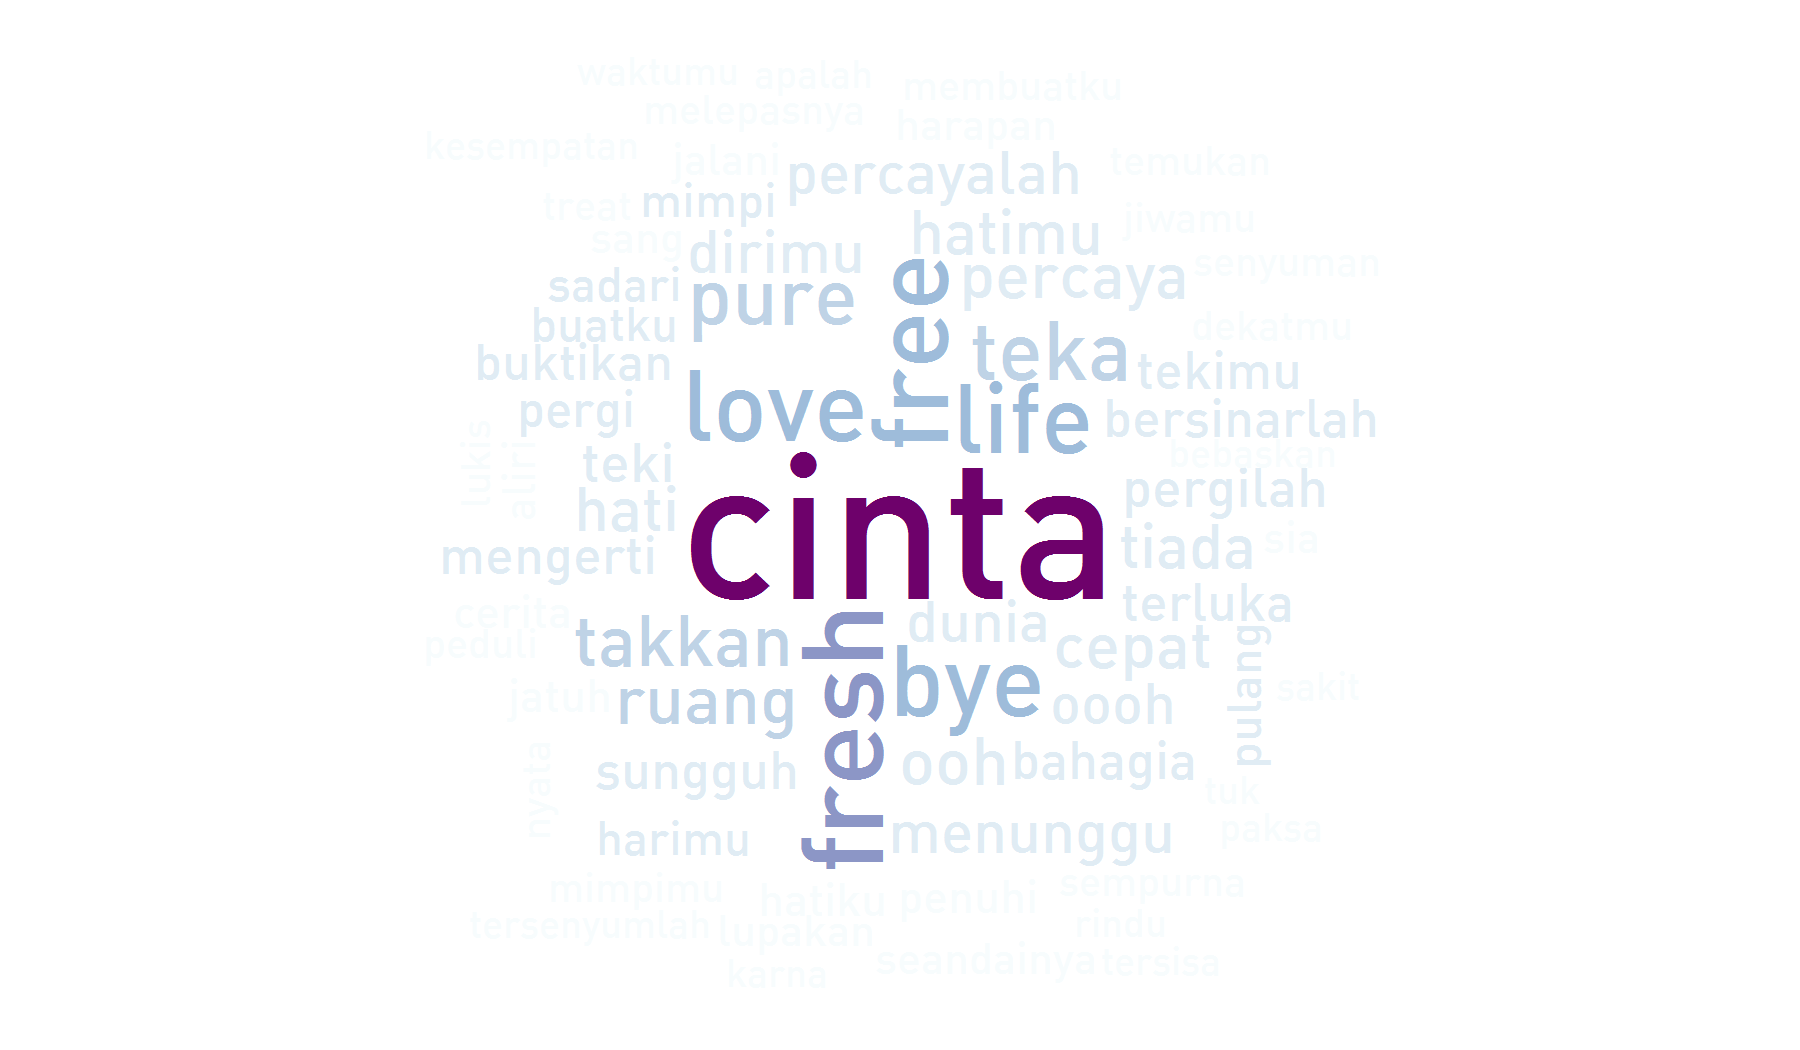
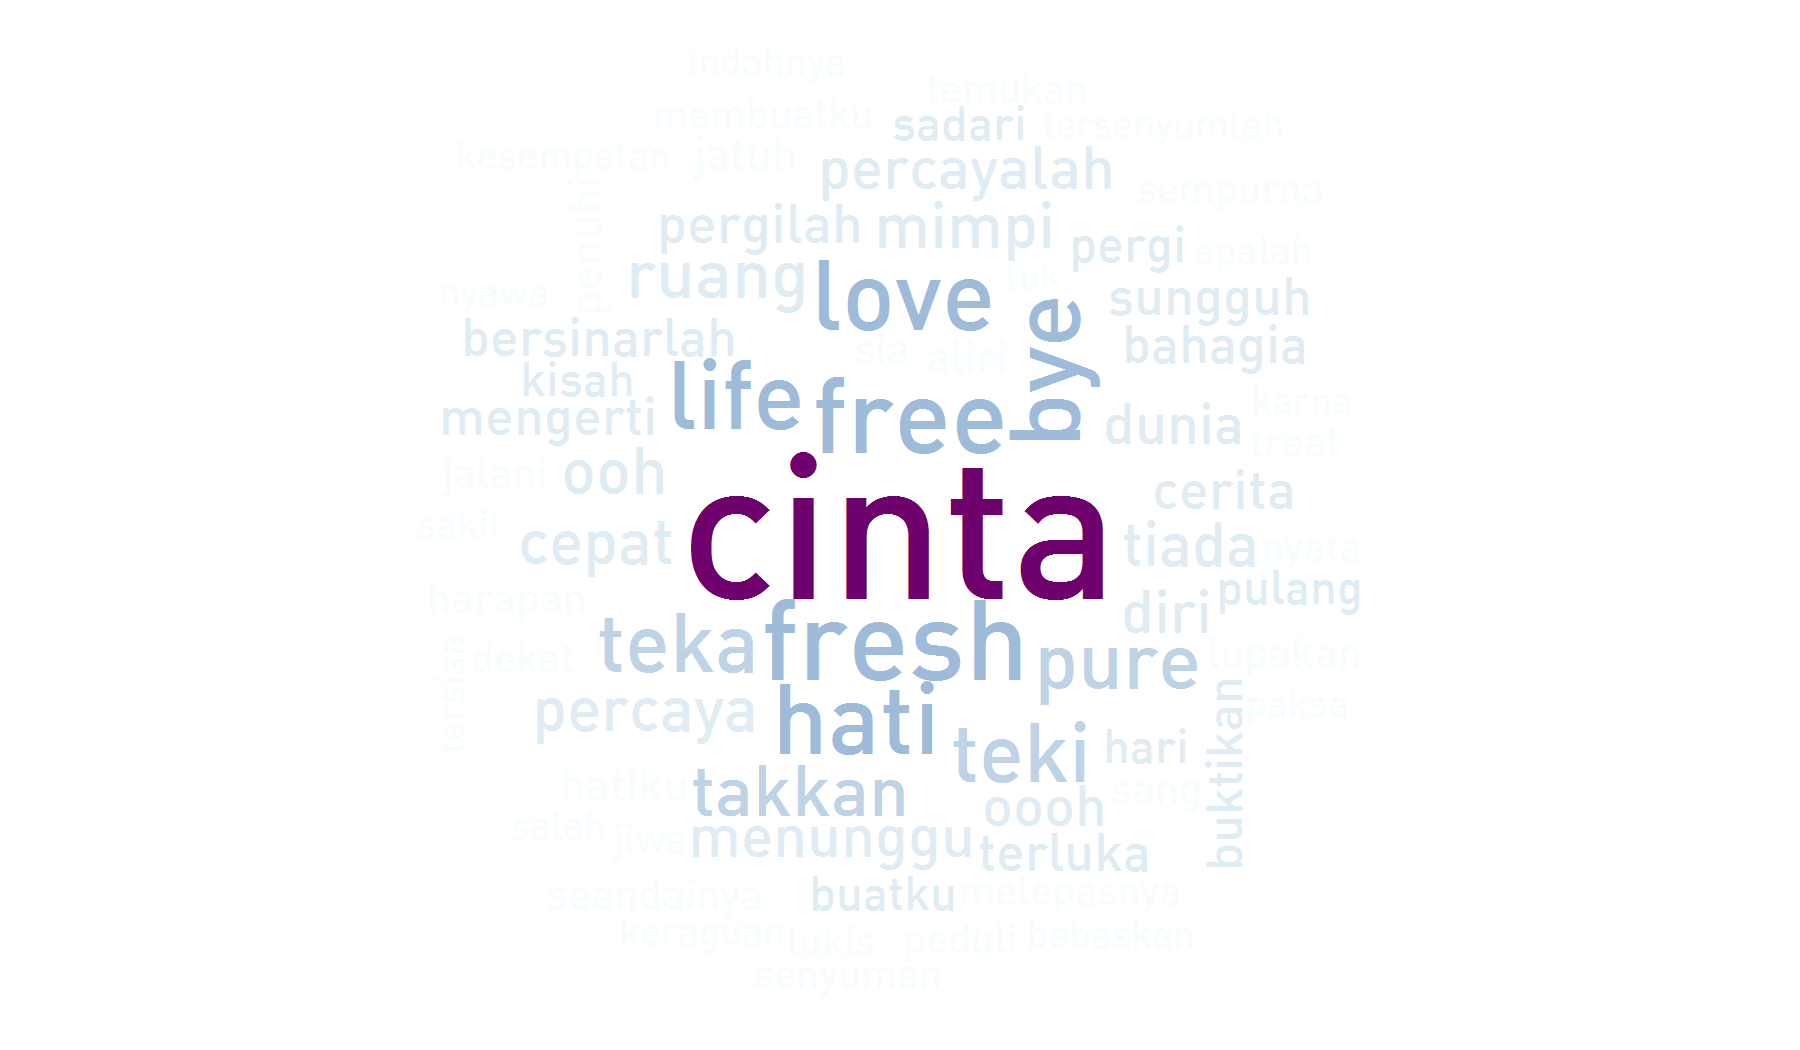
Raisa

Changed region(s): [[0.2489, 0.0914, 0.7778, 0.5486], [0.28, 0.4571, 0.7778, 0.8838]]

diff --git a/_pages/datakepo.html b/_pages/datakepo.html
@@ -6,7 +6,7 @@ description: "DataKepo adalah wadah bagi Rasyid Ridha untuk untuk mengeksplorasi
 ---
 
 {% assign rawtags = "" %}
-{% for post in site.categories.datague %}
+{% for post in site.categories.datakepo %}
 	{% assign ttags = post.tags | join:'|' | append:'|' %}
 	{% assign rawtags = rawtags | append:ttags %}
 {% endfor %}
@@ -31,13 +31,13 @@ description: "DataKepo adalah wadah bagi Rasyid Ridha untuk untuk mengeksplorasi
 </p>
 
 <div id="home">
-<h2 class="front"><i class="fa fa-camera"></i> {{ page.title }}</h2>
-<p>DataGue adalah wadah bagi saya untuk mengekspresikan diri dengan data melalui eksplorasi dan visualisasi data. Dua tulisan pembuka sudah dimuat dengan judul <a href="http://rasyidridha.com/blog/data-gue-personal-analytics/">DataGue: My Personal Analytics Palace</a> dan <a href="http://rasyidridha.com/blog/first-look-at-my-commuting-data/">First Look at My Transportation Data</a>. <i class="italic-default">Express yourself with data and have fun!</i>  
+<h2 class="front"><i class="fa fa-area-chart"></i> {{ page.title }}</h2>
+<p>DataKepo adalah wadah bagi saya untuk untuk mengeksplorasi, memvisualisasikan dan mendapatkan insight menarik dari berbagai macam data dengan cara yang unik. <i class="italic-default">Enjoy the data!</i>
 </p> 
 {% for tag in tags %}
 	<h5><a href="#{{ tag }}" id="{{ tag }}">{{ tag }}</a></h5>
 	<ul id="blog-posts" class="posts">
-	 {% for post in site.categories.datague %}
+	 {% for post in site.categories.datakepo %}
 		 {% if post.tags contains tag %}
 		 <li><span>{{ post.date | date_to_string }} &raquo;</span><b><a href="{{ post.url }}">{{ post.short-title }}</a></b></li>
 		 {% endif %}

diff --git a/_posts/datakepo/2017-09-14-selamat-jalan-raisa.md b/_posts/datakepo/2017-09-14-selamat-jalan-raisa.md
@@ -1,0 +1,202 @@
+---
+layout: datakepo
+title: "Visualisasi Data: Text Mining Lirik Lagu Raisa"
+short-title: "Text Mining Lirik Lagu Raisa"
+categories: datakepo
+tags:
+- Text Mining
+type: post
+img: "/images/datakepo/raisa/raisa.png"
+published: true
+word-count: false
+---
+
+Tanggal 3 September 2017 yang lalu, Raisa resmi berganti status. Selamat jalan Raisa! Selamat menempuh hidup baru!
+
+Di episode DataKepo kali ini, gue bakalan melakukan sedikit analisis teks mengenai lirik lagu Raisa. Gue bakalan bermain dengan *package* R `tidytext` oleh [Julia Silge](https://juliasilge.com/) dan [David Robinson](http://varianceexplained.org/) yang sejalan dengan paham `tidyverse` oleh Hadley Wickham dan kawan-kawan. Di sini, gue bakal fokus ke visualisasi data teks meskipun ada banyak sekali analisis yang bisa dilakukan terkait dengan data teks seperti analisis sentimen, pemodelan topik, dan lain-lain. *Here we go!*
+
+* TOC
+{:toc}
+
+## Data Preparation
+
+Sebelum data disajikan ke meja makan, banyak persiapan yang mesti dilakukan. Pengambilan data dilakukan menggunakan `rvest` a.k.a. sup cantiknya R kalo di Python. Data diperoleh dari [liriklaguindonesia.net](https://liriklaguindonesia.net). Untuk lebih detail mengenai pengambilan data bisa ditengok di [sini](https://github.com/rasyidstat/datakepo-snippets/blob/master/raisa/lirik_extract.R)
+
+```r
+library(tidyverse)
+library(tidytext)
+library(extrafont)
+# devtools::install_github("rasyidstat/mrSQ")
+library(mrSQ)
+loadfonts(quiet = TRUE)
+
+# load data
+load("data/df_raisa.Rda")
+df <- df %>%
+  select(-link, -source) %>%
+  mutate(txt=gsub("'", "'", txt))
+sw <- readLines("sw.txt", warn=FALSE) %>%
+  data_frame(word=.)
+df
+```
+
+```r
+## # A tibble: 792 x 5
+##              title     p    pl     l
+##              <chr> <int> <int> <int>
+##  1 Anganku Anganmu     1     1     1
+##  2 Anganku Anganmu     1     2     2
+##  3 Anganku Anganmu     1     3     3
+##  4 Anganku Anganmu     2     1     4
+##  5 Anganku Anganmu     2     2     5
+##  6 Anganku Anganmu     2     3     6
+##  7 Anganku Anganmu     3     1     7
+##  8 Anganku Anganmu     3     2     8
+##  9 Anganku Anganmu     4     1     9
+## 10 Anganku Anganmu     4     2    10
+## # ... with 782 more rows, and 1 more variables: txt <chr>
+```
+
+Terdapat 29 lagu Raisa yang gue peroleh dengan total baris untuk semua lagu ada sebanyak 792 baris. 
+
+## Data Visualization
+
+```r
+df_music <- df %>%
+  mutate(word = stringr::str_count(txt, "\\w+"),
+         title = gsub(" \\(.*", "", title)) %>%
+  group_by(title) %>%
+  summarise(p = max(p),
+            l = max(l),
+            w = sum(word))
+df_music %>%
+  top_n(15, w) %>%
+  ggplot(aes(reorder(title, w), w)) + geom_col(fill="#74A9CF") + 
+  coord_flip() + theme_din(grid="X") +
+  labs(x=NULL, y=NULL) +
+  scale_y_continuous(expand=c(0.01,0))
+```
+
+<img src="/images/datakepo/raisa/raisa-msc.png">
+
+Plot di atas merupakan 15 lagu Raisa dengan jumlah kata terbanyak. Sesuai dengan judulnya, *Love You **Longer*** memiliki jumlah kata paling banyak dibandingkan lagu Raisa lainnya. 
+
+### Word Cloud
+
+```r
+library(wordcloud)
+df_token <- df %>%
+  unnest_tokens(word, txt) %>%
+  anti_join(sw) %>%
+  anti_join(stop_words) %>%
+  filter(nchar(word) >= 3, !grepl("you", word)) %>%
+  mutate(word = ifelse(grepl("^[a-z]{3,}mu$", word), gsub("mu$", "", word), word))
+df_word <- df_token %>%
+  count(word) %>%
+  arrange(-n)
+wordcloud(df_word$word, df_word$n,
+          random.order = FALSE,
+          random.color = FALSE,
+          max.words = 70,
+          colors=brewer.pal(8, "BuPu"),
+          family="DIN")
+```
+
+<img src="/images/datakepo/raisa/raisa.png">
+
+Tidak bisa dipungkiri lagi, secara keseluruhan, cinta menjadi kata paling favorit. Secara lebih detail, apakah cinta menjadi kata paling favorit di setiap lagu?
+
+```r
+df_token %>%
+  count(title, word) %>%
+  group_by(title) %>%
+  mutate(p = n/sum(n)) %>%
+  top_n(1, n) %>%
+  filter(word %in% c("cinta","love")) %>%
+  arrange(-p) %>%
+  mutate(p = scales::percent(p))
+```
+
+```
+## # A tibble: 7 x 4
+## # Groups:   title [7]
+##                    title  word     n     p
+##                    <chr> <chr> <int> <chr>
+## 1            Could It Be  love    25   49%
+## 2          Tentang Cinta cinta    33   33%
+## 3 Apalah (Arti Menunggu) cinta    10 20.8%
+## 4                Inginku cinta     5 10.4%
+## 5         Cinta Sempurna cinta     5  9.8%
+## 6             Kali Kedua cinta     5 8.33%
+## 7        Love You Longer  love     6 7.41%
+```
+
+Dari 29 lagu, hanya 7 lagu dengan cinta/love sebagai kata yang paling sering muncul. *Tentang **Cinta***, sesuai judulnya, menoreh kata cinta paling banyak dibandingkan lagu lainnya. Dan setelah ditelusuri secara lebih mendalam, 14 dari 29 lagu mengandung kata cinta/love di dalamnya.
+
+### tf-idf
+
+*tf-idf* alias *term frequency-inverse document frequency* merupakan ukuran seberapa penting suatu kata terhadap sebuah dokumen dalam sekumpulan korpus. *tf* menunjukkan proporsi frekuensi kemunculan sebuah kata terhadap jumlah semua kata dalam sebuah dokumen. Sedangkan *idf* menunjukkan logaritma natural dari proporsi jumlah semua dokumen terhadap jumlah dokumen yang mengandung kata yang dimaksud. *tf-idf* merupakan perkalian antara keduanya. 
+
+```r
+df_token2 <- df %>%
+  unnest_tokens(word, txt) %>%
+  mutate(word = ifelse(grepl("^[a-z]{3,}mu$", word), gsub("mu$", "", word), word)) %>%
+  count(title, word, sort=TRUE) %>%
+  group_by(title) %>%
+  mutate(total=sum(n)) %>%
+  ungroup()
+
+df_tfidf <- df_token2 %>%
+  bind_tf_idf(word, title, n) %>%
+  anti_join(sw) %>%
+  anti_join(stop_words) %>%
+  filter(nchar(word) >= 3, !grepl("you", word))
+
+df_tfidf %>%
+  mutate(title = gsub(" \\(.*", "", title)) %>%
+  top_n(20, tf_idf) %>%
+  arrange(-tf_idf) %>%
+  ggplot(aes(reorder(word, tf_idf), tf_idf, fill=title)) + geom_col() +
+  coord_flip() + theme_din(grid="X") +
+  labs(x=NULL, y=NULL) +
+  scale_y_continuous(expand=c(0.01,0)) +
+  scale_fill_discrete(NULL) 
+```
+
+<img src="/images/datakepo/raisa/raisa-tf.png">
+
+Dalam kasus di sini, dokumen merupakan lagu yang ada sebanyak 29. Plot di atas menampilkan 20 kata dengan *tf-idf* tertinggi dari semua lagu. 
+
+### Network Graph
+
+```r
+library(igraph)
+library(ggraph)
+# devtools::install_github("dgrtwo/widyr")
+library(widyr)
+
+df_pair <- df_token %>%
+  pairwise_count(word, l, sort=TRUE)
+
+df_graph <- df_pair %>%
+  filter(n >= 10) %>%
+  graph_from_data_frame()
+V(df_graph)$freq <- degree(df_graph, mode = "all")
+
+df_graph %>%
+  ggraph(layout = "fr") +
+  geom_edge_fan(aes(edge_width = n), alpha = 0.1, show.legend = FALSE) +
+  geom_node_point(color = "#8C6BB1", aes(size = freq), show.legend = FALSE) +
+  geom_node_text(aes(label = name, size = freq), vjust = 2, family = "DIN", show.legend = FALSE) +
+  scale_size(range = c(3.5,6.5)) +
+  theme_void()
+```
+
+<img src="/images/datakepo/raisa/raisa-nw.png">
+
+Sebagai contoh, pasangan kata yang terbentuk dari "Bola itu bundar" adalah ["Bola","itu"], ["itu","bundar"] dan ["Bola","bundar"].
+
+https://interactive.twitter.com/game-of-thrones/
+http://www.ggplot2-exts.org/ggraph.html
+https://github.com/thomasp85/ggraph
+http://blog.revolutionanalytics.com/2017/02/ggraph-ggplot-for-graphs.html
